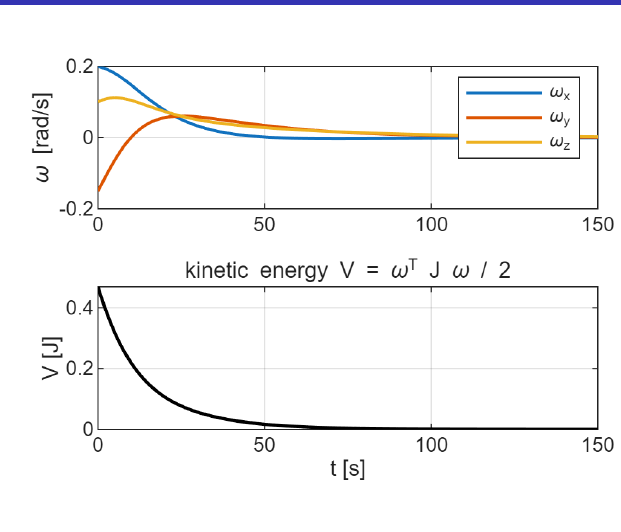
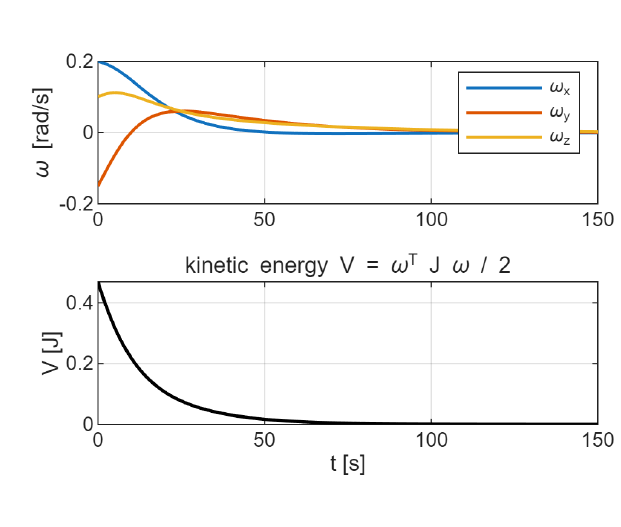
Quartz sync: Nov 18, 2026, 4:50 PM

diff --git a/quartz/styles/custom.scss b/quartz/styles/custom.scss
@@ -272,27 +272,26 @@ html[saved-theme] body article a.internal.broken {
   opacity: 0.8;
 }
 
-// ── Images: card look so the white PDF crops sit nicely ─────
+// ── Images: blend the white PDF crops into the page ─────────
+// All figures are diagrams on white. Light mode: `multiply` makes the
+// white disappear into the page. Dark mode: invert (hue-rotate keeps the
+// colours roughly the same) so white becomes black, and `screen` makes
+// black disappear, leaving light lines on the dark page.
 article img {
   display: block;
   margin: 1.4rem auto;
   max-width: 100%;
-  border-radius: 10px;
-  border: 1px solid var(--surface-border);
-  box-shadow: var(--shadow);
-  background: #fff;
-  transition:
-    transform 0.25s ease,
-    box-shadow 0.25s ease;
+  mix-blend-mode: multiply;
+  transition: transform 0.25s ease;
 
   &:hover {
-    transform: translateY(-2px) scale(1.01);
-    box-shadow: var(--shadow-hover);
+    transform: scale(1.02);
   }
 }
 
 :root[saved-theme="dark"] article img {
-  padding: 6px;
+  filter: invert(1) hue-rotate(180deg) brightness(1.1);
+  mix-blend-mode: screen;
 }
 
 // ── Callouts: glassy, coloured edge ──────────────────────────
@@ -559,21 +558,8 @@ footer {
   font-size: 0.85rem;
 }
 
-// ── Motion: gentle fade-in of page content ───────────────────
-.center > article {
-  animation: fade-up 0.45s ease both;
-}
-
-@keyframes fade-up {
-  from {
-    opacity: 0;
-    transform: translateY(8px);
-  }
-  to {
-    opacity: 1;
-    transform: none;
-  }
-}
+// (No fade-in on the article: an animated ancestor becomes its own
+// stacking context and stops the images from blending with the page.)
 
 @media (prefers-reduced-motion: reduce) {
   *,
